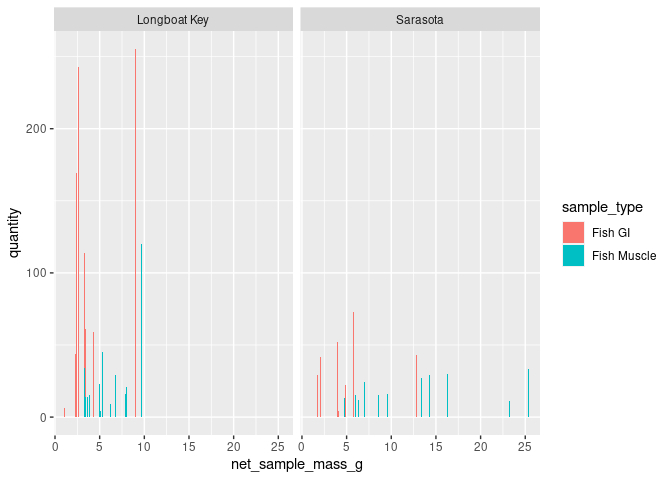
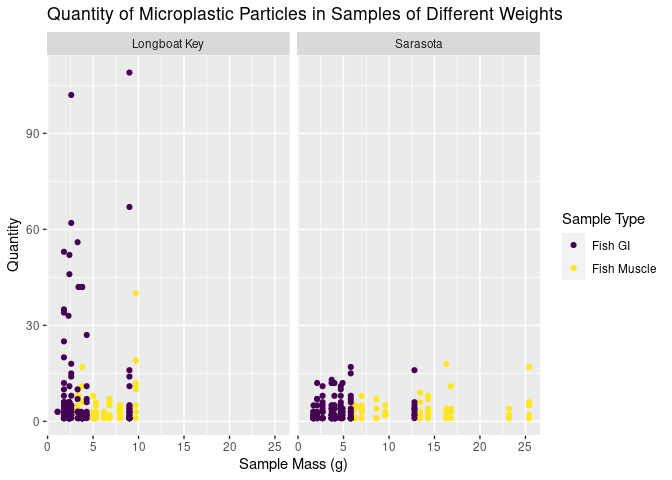
Finalize and tidy data visualizations

diff --git a/LEAFLERK.html b/LEAFLERK.html
@@ -4495,9 +4495,10 @@ pal7 &lt;-colorBin(&quot;RdBu&quot;, domain = fish_microplastics, bins=bins)</co
           zoom=12) %&gt;%
  
    addCircleMarkers(lng= fish_microplastics$collection_long,
-                    lat= fish_microplastics$collection_lat)</code></pre>
-<div class="leaflet html-widget html-fill-item" id="htmlwidget-0125c03beffb827678fa" style="width:672px;height:480px;"></div>
-<script type="application/json" data-for="htmlwidget-0125c03beffb827678fa">{"x":{"options":{"crs":{"crsClass":"L.CRS.EPSG3857","code":null,"proj4def":null,"projectedBounds":null,"options":{}}},"calls":[{"method":"addTiles","args":["https://{s}.tile.openstreetmap.org/{z}/{x}/{y}.png",null,null,{"minZoom":0,"maxZoom":18,"tileSize":256,"subdomains":"abc","errorTileUrl":"","tms":false,"noWrap":false,"zoomOffset":0,"zoomReverse":false,"opacity":1,"zIndex":1,"detectRetina":false,"attribution":"&copy; <a href=\"https://openstreetmap.org/copyright/\">OpenStreetMap<\/a>,  <a href=\"https://opendatacommons.org/licenses/odbl/\">ODbL<\/a>"}]},{"method":"addCircleMarkers","args":[[27.42136,27.42136,27.42136,27.42136,27.42136,27.42136,27.42136,27.42136,27.42136,27.31513,27.31513,27.31513,27.31513,27.31513,27.31513,27.31513,27.31513,27.31513,27.31513,27.31513,27.31513,27.42136,27.42136,27.42136,27.42136,27.42136,27.31513,27.31513,27.31513,27.31513,27.31513,27.42136,27.42136,27.42136,27.42136,27.42136,27.42136,27.42136,27.42136,27.42136,27.42136,27.42136,27.42136,27.42136,27.42136,27.42136,27.42136,27.42136,27.42136,27.42136,27.42136,27.42136,27.42136,27.42136,27.31513,27.31513,27.31513,27.31513,27.31513,27.31513,27.31513,27.31513,27.31513,27.42136,27.42136,27.42136,27.42136,27.42136,27.42136,27.31513,27.31513,27.31513,27.31513,27.31513,27.31513,27.31513,27.31513,27.31513,27.31513,27.31513,27.31513,27.31513,27.31513,27.31513,27.31513,27.31513,27.42136,27.42136,27.42136,27.42136,27.42136,27.42136,27.42136,27.42136,27.42136,27.42136,27.42136,27.42136,27.42136,27.42136,27.42136,27.42136,27.42136,27.42136,27.42136,27.42136,27.42136,27.42136,27.42136,27.42136,27.31513,27.31513,27.31513,27.31513,27.31513,27.31513,27.31513,27.42136,27.42136,27.42136,27.42136,27.42136,27.42136,27.42136,27.42136,27.42136,27.42136,27.42136,27.42136,27.42136,27.31513,27.31513,27.31513,27.31513,27.31513,27.31513,27.31513,27.31513,27.31513,27.31513,27.31513,27.31513,27.31513,27.31513,27.31513,27.31513,27.31513,27.31513,27.31513,27.31513,27.31513,27.42136,27.42136,27.42136,27.42136,27.42136,27.42136,27.42136,27.42136,27.42136,27.42136,27.42136,27.42136,27.42136,27.31513,27.31513,27.31513,27.31513,27.31513,27.31513,27.42136,27.42136,27.42136,27.42136,27.42136,27.42136,27.42136,27.42136,27.42136,27.42136,27.42136,27.42136,27.42136,27.42136,27.42136,27.42136,27.42136,27.42136,27.42136,27.42136,27.42136,27.42136,27.42136,27.42136,27.42136,27.42136,27.42136,27.42136,27.42136,27.42136,27.42136,27.42136,27.42136,27.42136,27.42136,27.42136,27.42136,27.42136,27.42136,27.42136,27.42136,27.42136,27.31513,27.31513,27.31513,27.31513,27.31513,27.31513,27.31513,27.31513,27.31513,27.31513,27.31513,27.31513,27.42136,27.42136,27.42136,27.42136,27.42136,27.42136,27.42136,27.42136,27.42136,27.42136,27.42136,27.42136,27.31513,27.31513,27.31513,27.31513,27.31513,27.31513,27.42136,27.42136,27.42136,27.42136,27.42136,27.42136,27.42136,27.42136,27.42136,27.42136,27.42136,27.42136,27.42136,27.42136,27.42136,27.42136,27.42136,27.42136,27.42136,27.42136,27.42136,27.31513,27.31513,27.31513,27.31513,27.31513,27.31513,27.31513,27.31513,27.31513,27.42136,27.42136,27.42136,27.42136,27.42136,27.42136,27.42136,27.42136,27.31513,27.31513,27.31513,27.31513,27.31513,27.31513,27.31513,27.31513,27.31513,27.31513,27.31513,27.31513,27.31513,27.31513,27.31513,27.31513,27.31513,27.31513,27.31513,27.31513,27.31513,27.31513,27.31513,27.31513,27.31513,27.42136,27.42136,27.42136,27.42136,27.42136,27.42136,27.31513,27.31513,27.31513,27.31513,27.31513,27.31513,27.31513,27.31513,27.31513,27.31513,27.31513,27.31513,27.31513,27.31513,27.31513,27.31513,27.31513,27.31513,27.31513,27.31513,27.31513,27.31513,27.31513,27.31513,27.31513,27.31513,27.31513,27.31513,27.31513,27.31513,27.31513,27.31513,27.42136,27.42136,27.42136,27.42136,27.42136,27.42136,27.42136,27.31513,27.31513,27.31513,27.31513,27.31513,27.42136,27.42136,27.42136,27.42136,27.42136,27.42136,27.31513,27.31513,27.31513,27.31513,27.31513,27.31513,27.31513,27.31513,27.42136,27.42136,27.42136,27.42136,27.42136,27.42136,27.31513,27.31513,27.31513,27.31513,27.31513,27.31513,27.42136,27.42136,27.42136,27.42136,27.42136,27.42136,27.42136,27.42136,27.42136,27.42136,27.42136,27.42136,27.42136,27.42136,27.42136,27.42136,27.42136,27.31513,27.31513,27.31513,27.31513,27.31513,27.31513,27.31513,27.31513,27.31513,27.31513,27.31513,27.31513,27.31513,27.31513,27.31513,27.31513,27.31513,27.42136,27.42136,27.42136,27.42136,27.42136],[-82.64988,-82.64988,-82.64988,-82.64988,-82.64988,-82.64988,-82.64988,-82.64988,-82.64988,-82.54724,-82.54724,-82.54724,-82.54724,-82.54724,-82.54724,-82.54724,-82.54724,-82.54724,-82.54724,-82.54724,-82.54724,-82.64988,-82.64988,-82.64988,-82.64988,-82.64988,-82.54724,-82.54724,-82.54724,-82.54724,-82.54724,-82.64988,-82.64988,-82.64988,-82.64988,-82.64988,-82.64988,-82.64988,-82.64988,-82.64988,-82.64988,-82.64988,-82.64988,-82.64988,-82.64988,-82.64988,-82.64988,-82.64988,-82.64988,-82.64988,-82.64988,-82.64988,-82.64988,-82.64988,-82.54724,-82.54724,-82.54724,-82.54724,-82.54724,-82.54724,-82.54724,-82.54724,-82.54724,-82.64988,-82.64988,-82.64988,-82.64988,-82.64988,-82.64988,-82.54724,-82.54724,-82.54724,-82.54724,-82.54724,-82.54724,-82.54724,-82.54724,-82.54724,-82.54724,-82.54724,-82.54724,-82.54724,-82.54724,-82.54724,-82.54724,-82.54724,-82.64988,-82.64988,-82.64988,-82.64988,-82.64988,-82.64988,-82.64988,-82.64988,-82.64988,-82.64988,-82.64988,-82.64988,-82.64988,-82.64988,-82.64988,-82.64988,-82.64988,-82.64988,-82.64988,-82.64988,-82.64988,-82.64988,-82.64988,-82.64988,-82.54724,-82.54724,-82.54724,-82.54724,-82.54724,-82.54724,-82.54724,-82.64988,-82.64988,-82.64988,-82.64988,-82.64988,-82.64988,-82.64988,-82.64988,-82.64988,-82.64988,-82.64988,-82.64988,-82.64988,-82.54724,-82.54724,-82.54724,-82.54724,-82.54724,-82.54724,-82.54724,-82.54724,-82.54724,-82.54724,-82.54724,-82.54724,-82.54724,-82.54724,-82.54724,-82.54724,-82.54724,-82.54724,-82.54724,-82.54724,-82.54724,-82.64988,-82.64988,-82.64988,-82.64988,-82.64988,-82.64988,-82.64988,-82.64988,-82.64988,-82.64988,-82.64988,-82.64988,-82.64988,-82.54724,-82.54724,-82.54724,-82.54724,-82.54724,-82.54724,-82.64988,-82.64988,-82.64988,-82.64988,-82.64988,-82.64988,-82.64988,-82.64988,-82.64988,-82.64988,-82.64988,-82.64988,-82.64988,-82.64988,-82.64988,-82.64988,-82.64988,-82.64988,-82.64988,-82.64988,-82.64988,-82.64988,-82.64988,-82.64988,-82.64988,-82.64988,-82.64988,-82.64988,-82.64988,-82.64988,-82.64988,-82.64988,-82.64988,-82.64988,-82.64988,-82.64988,-82.64988,-82.64988,-82.64988,-82.64988,-82.64988,-82.64988,-82.54724,-82.54724,-82.54724,-82.54724,-82.54724,-82.54724,-82.54724,-82.54724,-82.54724,-82.54724,-82.54724,-82.54724,-82.64988,-82.64988,-82.64988,-82.64988,-82.64988,-82.64988,-82.64988,-82.64988,-82.64988,-82.64988,-82.64988,-82.64988,-82.54724,-82.54724,-82.54724,-82.54724,-82.54724,-82.54724,-82.64988,-82.64988,-82.64988,-82.64988,-82.64988,-82.64988,-82.64988,-82.64988,-82.64988,-82.64988,-82.64988,-82.64988,-82.64988,-82.64988,-82.64988,-82.64988,-82.64988,-82.64988,-82.64988,-82.64988,-82.64988,-82.54724,-82.54724,-82.54724,-82.54724,-82.54724,-82.54724,-82.54724,-82.54724,-82.54724,-82.64988,-82.64988,-82.64988,-82.64988,-82.64988,-82.64988,-82.64988,-82.64988,-82.54724,-82.54724,-82.54724,-82.54724,-82.54724,-82.54724,-82.54724,-82.54724,-82.54724,-82.54724,-82.54724,-82.54724,-82.54724,-82.54724,-82.54724,-82.54724,-82.54724,-82.54724,-82.54724,-82.54724,-82.54724,-82.54724,-82.54724,-82.54724,-82.54724,-82.64988,-82.64988,-82.64988,-82.64988,-82.64988,-82.64988,-82.54724,-82.54724,-82.54724,-82.54724,-82.54724,-82.54724,-82.54724,-82.54724,-82.54724,-82.54724,-82.54724,-82.54724,-82.54724,-82.54724,-82.54724,-82.54724,-82.54724,-82.54724,-82.54724,-82.54724,-82.54724,-82.54724,-82.54724,-82.54724,-82.54724,-82.54724,-82.54724,-82.54724,-82.54724,-82.54724,-82.54724,-82.54724,-82.64988,-82.64988,-82.64988,-82.64988,-82.64988,-82.64988,-82.64988,-82.54724,-82.54724,-82.54724,-82.54724,-82.54724,-82.64988,-82.64988,-82.64988,-82.64988,-82.64988,-82.64988,-82.54724,-82.54724,-82.54724,-82.54724,-82.54724,-82.54724,-82.54724,-82.54724,-82.64988,-82.64988,-82.64988,-82.64988,-82.64988,-82.64988,-82.54724,-82.54724,-82.54724,-82.54724,-82.54724,-82.54724,-82.64988,-82.64988,-82.64988,-82.64988,-82.64988,-82.64988,-82.64988,-82.64988,-82.64988,-82.64988,-82.64988,-82.64988,-82.64988,-82.64988,-82.64988,-82.64988,-82.64988,-82.54724,-82.54724,-82.54724,-82.54724,-82.54724,-82.54724,-82.54724,-82.54724,-82.54724,-82.54724,-82.54724,-82.54724,-82.54724,-82.54724,-82.54724,-82.54724,-82.54724,-82.64988,-82.64988,-82.64988,-82.64988,-82.64988],10,null,null,{"interactive":true,"className":"","stroke":true,"color":"#03F","weight":5,"opacity":0.5,"fill":true,"fillColor":"#03F","fillOpacity":0.2},null,null,null,null,null,{"interactive":false,"permanent":false,"direction":"auto","opacity":1,"offset":[0,0],"textsize":"10px","textOnly":false,"className":"","sticky":true},null]}],"setView":[[27.346,-82.5673],12,[]],"limits":{"lat":[27.31513,27.42136],"lng":[-82.64988,-82.54724]}},"evals":[],"jsHooks":[]}</script>
+                    lat= fish_microplastics$collection_lat,
+                    radius = fish_microplastics$quantity)</code></pre>
+<div class="leaflet html-widget html-fill-item" id="htmlwidget-300327f83c4e00760af1" style="width:672px;height:480px;"></div>
+<script type="application/json" data-for="htmlwidget-300327f83c4e00760af1">{"x":{"options":{"crs":{"crsClass":"L.CRS.EPSG3857","code":null,"proj4def":null,"projectedBounds":null,"options":{}}},"calls":[{"method":"addTiles","args":["https://{s}.tile.openstreetmap.org/{z}/{x}/{y}.png",null,null,{"minZoom":0,"maxZoom":18,"tileSize":256,"subdomains":"abc","errorTileUrl":"","tms":false,"noWrap":false,"zoomOffset":0,"zoomReverse":false,"opacity":1,"zIndex":1,"detectRetina":false,"attribution":"&copy; <a href=\"https://openstreetmap.org/copyright/\">OpenStreetMap<\/a>,  <a href=\"https://opendatacommons.org/licenses/odbl/\">ODbL<\/a>"}]},{"method":"addCircleMarkers","args":[[27.42136,27.42136,27.42136,27.42136,27.42136,27.42136,27.42136,27.42136,27.42136,27.31513,27.31513,27.31513,27.31513,27.31513,27.31513,27.31513,27.31513,27.31513,27.31513,27.31513,27.31513,27.42136,27.42136,27.42136,27.42136,27.42136,27.31513,27.31513,27.31513,27.31513,27.31513,27.42136,27.42136,27.42136,27.42136,27.42136,27.42136,27.42136,27.42136,27.42136,27.42136,27.42136,27.42136,27.42136,27.42136,27.42136,27.42136,27.42136,27.42136,27.42136,27.42136,27.42136,27.42136,27.42136,27.31513,27.31513,27.31513,27.31513,27.31513,27.31513,27.31513,27.31513,27.31513,27.42136,27.42136,27.42136,27.42136,27.42136,27.42136,27.31513,27.31513,27.31513,27.31513,27.31513,27.31513,27.31513,27.31513,27.31513,27.31513,27.31513,27.31513,27.31513,27.31513,27.31513,27.31513,27.31513,27.42136,27.42136,27.42136,27.42136,27.42136,27.42136,27.42136,27.42136,27.42136,27.42136,27.42136,27.42136,27.42136,27.42136,27.42136,27.42136,27.42136,27.42136,27.42136,27.42136,27.42136,27.42136,27.42136,27.42136,27.31513,27.31513,27.31513,27.31513,27.31513,27.31513,27.31513,27.42136,27.42136,27.42136,27.42136,27.42136,27.42136,27.42136,27.42136,27.42136,27.42136,27.42136,27.42136,27.42136,27.31513,27.31513,27.31513,27.31513,27.31513,27.31513,27.31513,27.31513,27.31513,27.31513,27.31513,27.31513,27.31513,27.31513,27.31513,27.31513,27.31513,27.31513,27.31513,27.31513,27.31513,27.42136,27.42136,27.42136,27.42136,27.42136,27.42136,27.42136,27.42136,27.42136,27.42136,27.42136,27.42136,27.42136,27.31513,27.31513,27.31513,27.31513,27.31513,27.31513,27.42136,27.42136,27.42136,27.42136,27.42136,27.42136,27.42136,27.42136,27.42136,27.42136,27.42136,27.42136,27.42136,27.42136,27.42136,27.42136,27.42136,27.42136,27.42136,27.42136,27.42136,27.42136,27.42136,27.42136,27.42136,27.42136,27.42136,27.42136,27.42136,27.42136,27.42136,27.42136,27.42136,27.42136,27.42136,27.42136,27.42136,27.42136,27.42136,27.42136,27.42136,27.42136,27.31513,27.31513,27.31513,27.31513,27.31513,27.31513,27.31513,27.31513,27.31513,27.31513,27.31513,27.31513,27.42136,27.42136,27.42136,27.42136,27.42136,27.42136,27.42136,27.42136,27.42136,27.42136,27.42136,27.42136,27.31513,27.31513,27.31513,27.31513,27.31513,27.31513,27.42136,27.42136,27.42136,27.42136,27.42136,27.42136,27.42136,27.42136,27.42136,27.42136,27.42136,27.42136,27.42136,27.42136,27.42136,27.42136,27.42136,27.42136,27.42136,27.42136,27.42136,27.31513,27.31513,27.31513,27.31513,27.31513,27.31513,27.31513,27.31513,27.31513,27.42136,27.42136,27.42136,27.42136,27.42136,27.42136,27.42136,27.42136,27.31513,27.31513,27.31513,27.31513,27.31513,27.31513,27.31513,27.31513,27.31513,27.31513,27.31513,27.31513,27.31513,27.31513,27.31513,27.31513,27.31513,27.31513,27.31513,27.31513,27.31513,27.31513,27.31513,27.31513,27.31513,27.42136,27.42136,27.42136,27.42136,27.42136,27.42136,27.31513,27.31513,27.31513,27.31513,27.31513,27.31513,27.31513,27.31513,27.31513,27.31513,27.31513,27.31513,27.31513,27.31513,27.31513,27.31513,27.31513,27.31513,27.31513,27.31513,27.31513,27.31513,27.31513,27.31513,27.31513,27.31513,27.31513,27.31513,27.31513,27.31513,27.31513,27.31513,27.42136,27.42136,27.42136,27.42136,27.42136,27.42136,27.42136,27.31513,27.31513,27.31513,27.31513,27.31513,27.42136,27.42136,27.42136,27.42136,27.42136,27.42136,27.31513,27.31513,27.31513,27.31513,27.31513,27.31513,27.31513,27.31513,27.42136,27.42136,27.42136,27.42136,27.42136,27.42136,27.31513,27.31513,27.31513,27.31513,27.31513,27.31513,27.42136,27.42136,27.42136,27.42136,27.42136,27.42136,27.42136,27.42136,27.42136,27.42136,27.42136,27.42136,27.42136,27.42136,27.42136,27.42136,27.42136,27.31513,27.31513,27.31513,27.31513,27.31513,27.31513,27.31513,27.31513,27.31513,27.31513,27.31513,27.31513,27.31513,27.31513,27.31513,27.31513,27.31513,27.42136,27.42136,27.42136,27.42136,27.42136],[-82.64988,-82.64988,-82.64988,-82.64988,-82.64988,-82.64988,-82.64988,-82.64988,-82.64988,-82.54724,-82.54724,-82.54724,-82.54724,-82.54724,-82.54724,-82.54724,-82.54724,-82.54724,-82.54724,-82.54724,-82.54724,-82.64988,-82.64988,-82.64988,-82.64988,-82.64988,-82.54724,-82.54724,-82.54724,-82.54724,-82.54724,-82.64988,-82.64988,-82.64988,-82.64988,-82.64988,-82.64988,-82.64988,-82.64988,-82.64988,-82.64988,-82.64988,-82.64988,-82.64988,-82.64988,-82.64988,-82.64988,-82.64988,-82.64988,-82.64988,-82.64988,-82.64988,-82.64988,-82.64988,-82.54724,-82.54724,-82.54724,-82.54724,-82.54724,-82.54724,-82.54724,-82.54724,-82.54724,-82.64988,-82.64988,-82.64988,-82.64988,-82.64988,-82.64988,-82.54724,-82.54724,-82.54724,-82.54724,-82.54724,-82.54724,-82.54724,-82.54724,-82.54724,-82.54724,-82.54724,-82.54724,-82.54724,-82.54724,-82.54724,-82.54724,-82.54724,-82.64988,-82.64988,-82.64988,-82.64988,-82.64988,-82.64988,-82.64988,-82.64988,-82.64988,-82.64988,-82.64988,-82.64988,-82.64988,-82.64988,-82.64988,-82.64988,-82.64988,-82.64988,-82.64988,-82.64988,-82.64988,-82.64988,-82.64988,-82.64988,-82.54724,-82.54724,-82.54724,-82.54724,-82.54724,-82.54724,-82.54724,-82.64988,-82.64988,-82.64988,-82.64988,-82.64988,-82.64988,-82.64988,-82.64988,-82.64988,-82.64988,-82.64988,-82.64988,-82.64988,-82.54724,-82.54724,-82.54724,-82.54724,-82.54724,-82.54724,-82.54724,-82.54724,-82.54724,-82.54724,-82.54724,-82.54724,-82.54724,-82.54724,-82.54724,-82.54724,-82.54724,-82.54724,-82.54724,-82.54724,-82.54724,-82.64988,-82.64988,-82.64988,-82.64988,-82.64988,-82.64988,-82.64988,-82.64988,-82.64988,-82.64988,-82.64988,-82.64988,-82.64988,-82.54724,-82.54724,-82.54724,-82.54724,-82.54724,-82.54724,-82.64988,-82.64988,-82.64988,-82.64988,-82.64988,-82.64988,-82.64988,-82.64988,-82.64988,-82.64988,-82.64988,-82.64988,-82.64988,-82.64988,-82.64988,-82.64988,-82.64988,-82.64988,-82.64988,-82.64988,-82.64988,-82.64988,-82.64988,-82.64988,-82.64988,-82.64988,-82.64988,-82.64988,-82.64988,-82.64988,-82.64988,-82.64988,-82.64988,-82.64988,-82.64988,-82.64988,-82.64988,-82.64988,-82.64988,-82.64988,-82.64988,-82.64988,-82.54724,-82.54724,-82.54724,-82.54724,-82.54724,-82.54724,-82.54724,-82.54724,-82.54724,-82.54724,-82.54724,-82.54724,-82.64988,-82.64988,-82.64988,-82.64988,-82.64988,-82.64988,-82.64988,-82.64988,-82.64988,-82.64988,-82.64988,-82.64988,-82.54724,-82.54724,-82.54724,-82.54724,-82.54724,-82.54724,-82.64988,-82.64988,-82.64988,-82.64988,-82.64988,-82.64988,-82.64988,-82.64988,-82.64988,-82.64988,-82.64988,-82.64988,-82.64988,-82.64988,-82.64988,-82.64988,-82.64988,-82.64988,-82.64988,-82.64988,-82.64988,-82.54724,-82.54724,-82.54724,-82.54724,-82.54724,-82.54724,-82.54724,-82.54724,-82.54724,-82.64988,-82.64988,-82.64988,-82.64988,-82.64988,-82.64988,-82.64988,-82.64988,-82.54724,-82.54724,-82.54724,-82.54724,-82.54724,-82.54724,-82.54724,-82.54724,-82.54724,-82.54724,-82.54724,-82.54724,-82.54724,-82.54724,-82.54724,-82.54724,-82.54724,-82.54724,-82.54724,-82.54724,-82.54724,-82.54724,-82.54724,-82.54724,-82.54724,-82.64988,-82.64988,-82.64988,-82.64988,-82.64988,-82.64988,-82.54724,-82.54724,-82.54724,-82.54724,-82.54724,-82.54724,-82.54724,-82.54724,-82.54724,-82.54724,-82.54724,-82.54724,-82.54724,-82.54724,-82.54724,-82.54724,-82.54724,-82.54724,-82.54724,-82.54724,-82.54724,-82.54724,-82.54724,-82.54724,-82.54724,-82.54724,-82.54724,-82.54724,-82.54724,-82.54724,-82.54724,-82.54724,-82.64988,-82.64988,-82.64988,-82.64988,-82.64988,-82.64988,-82.64988,-82.54724,-82.54724,-82.54724,-82.54724,-82.54724,-82.64988,-82.64988,-82.64988,-82.64988,-82.64988,-82.64988,-82.54724,-82.54724,-82.54724,-82.54724,-82.54724,-82.54724,-82.54724,-82.54724,-82.64988,-82.64988,-82.64988,-82.64988,-82.64988,-82.64988,-82.54724,-82.54724,-82.54724,-82.54724,-82.54724,-82.54724,-82.64988,-82.64988,-82.64988,-82.64988,-82.64988,-82.64988,-82.64988,-82.64988,-82.64988,-82.64988,-82.64988,-82.64988,-82.64988,-82.64988,-82.64988,-82.64988,-82.64988,-82.54724,-82.54724,-82.54724,-82.54724,-82.54724,-82.54724,-82.54724,-82.54724,-82.54724,-82.54724,-82.54724,-82.54724,-82.54724,-82.54724,-82.54724,-82.54724,-82.54724,-82.64988,-82.64988,-82.64988,-82.64988,-82.64988],[3,19,19,40,5,1,12,11,10,2,2,2,3,1,3,1,1,1,4,2,2,8,2,2,1,1,1,4,5,1,1,1,7,2,4,8,2,1,5,1,3,17,1,11,1,1,2,4,2,1,5,5,3,1,9,6,1,1,3,2,2,2,1,2,6,2,2,1,2,3,3,11,4,1,3,8,4,3,5,1,5,3,2,2,2,2,3,2,1,2,1,1,2,1,2,1,2,3,1,3,2,1,1,5,2,2,2,1,2,2,17,1,2,5,6,1,1,5,4,1,3,3,6,6,1,5,7,1,2,1,7,4,1,1,1,1,4,3,2,7,3,1,8,1,18,3,4,2,1,1,1,2,3,6,1,2,1,3,1,3,2,1,1,1,2,1,3,4,4,1,8,2,1,8,3,1,42,3,1,1,102,18,15,5,14,2,1,8,3,42,1,1,1,1,1,2,1,3,3,1,6,33,3,1,27,11,3,1,7,2,2,6,4,2,2,2,13,3,2,1,8,1,3,1,109,16,1,1,1,2,1,5,62,2,4,2,4,12,1,1,5,1,4,null,20,35,2,2,1,1,6,34,53,25,6,1,5,67,14,4,3,2,5,3,6,16,5,2,4,4,2,1,3,2,5,1,3,1,1,3,1,1,1,1,1,5,1,1,7,2,5,1,2,1,3,3,2,3,1,2,1,1,2,1,1,1,42,1,1,1,2,2,4,12,1,1,5,1,2,5,4,1,8,4,6,4,3,5,1,11,1,3,12,7,2,1,5,6,3,3,2,2,2,4,11,3,3,1,1,1,12,3,4,1,2,56,1,7,10,3,3,12,1,2,1,5,4,1,2,12,1,2,5,3,3,11,10,4,1,8,1,46,3,4,5,4,6,1,1,1,5,52,11,6,5,1,1,1,17,8,1,3,1,1,1,7,1,6,3,2,15,4,1,1,1,10,8,3,1,2],null,null,{"interactive":true,"className":"","stroke":true,"color":"#03F","weight":5,"opacity":0.5,"fill":true,"fillColor":"#03F","fillOpacity":0.2},null,null,null,null,null,{"interactive":false,"permanent":false,"direction":"auto","opacity":1,"offset":[0,0],"textsize":"10px","textOnly":false,"className":"","sticky":true},null]}],"setView":[[27.346,-82.5673],12,[]],"limits":{"lat":[27.31513,27.42136],"lng":[-82.64988,-82.54724]}},"evals":[],"jsHooks":[]}</script>
 <p>``` # Let’s represent the 2 sampling stations in the dataset (see
 plastics_analysis)</p>
 

diff --git a/plastics_analysis.md b/plastics_analysis.md
@@ -13,6 +13,9 @@ Mabon Young, John Calzini, and Gordon Maguire
 library(tidyverse)
 library(readxl)
 library(janitor)
+library(RColorBrewer)
+library(forcats)
+library(ggridges)
 ```
 
 ``` r
@@ -138,11 +141,53 @@ fish_microplastics_full <- fish_microplastics_dens %>%
 
 ``` r
 fish_microplastics_full %>%
-  ggplot(aes(x = net_sample_mass_g, y = quantity, fill = sample_type)) +
+  ggplot(aes(x = net_sample_mass_g, y = quantity, color = sample_type)) +
+  geom_point() +
+  facet_wrap(~station) +
+  scale_colour_viridis_d() +
+  labs( x = "Sample Mass (g)",
+        y = "Quantity",
+        color = "Sample Type",
+        title = "Quantity of Microplastic Particles in Samples of Different Weights"
+    )
+```
+
+    ## Warning: Removed 1 rows containing missing values (`geom_point()`).
+
+<img src="plastics_analysis_files/figure-gfm/dens-by-station-1.png" alt="A scatter chart of microplastic quantity by sample mass for the Longboat Key and Sarasota sampling stations showing that microplastics are much more abundant in the Longboat Key samples, even at low sample masses."  />
+
+``` r
+fish_microplastics_full %>%
+  drop_na(particle_type) %>%
+  ggplot(aes(x = fct_relevel(particle_type, "Fiber_single", "Fiber_bundle", "Film", "Fragment_TWP", "Fragment_nonTWP" ), y = quantity, fill = sample_type)) +
   geom_col() +
-  facet_wrap(~station)
+  facet_wrap(~station) +
+  scale_x_discrete(labels = c("Single Fiber", "Fiber Bundle", "Film", "Tire Wear", "Other")) +
+  theme(axis.text.x = element_text(angle = 45, vjust = 1, hjust=1)) +
+  scale_fill_viridis_d() +
+  labs(x = "Particle Type", 
+       y = "Quantity", 
+       fill = "Sample Type",
+       title = "Quantity of Particle Types Between Research Stations" )
 ```
 
     ## Warning: Removed 1 rows containing missing values (`position_stack()`).
 
-<img src="plastics_analysis_files/figure-gfm/dens-by-station-1.png" alt="A bar chart of microplastic quantity by sample mass for the Longboat Key and Sarasota sampling stations showing that microplastics are much more abundant in the Longboat Key samples, even at low sample masses."  />
+<img src="plastics_analysis_files/figure-gfm/station-part-type-1.png" alt="A bar graph of the amount of different types of particles at each research station, showing that the Longboat Key station had more particles overall, with significantly more single fibers than Sarasota, with Sarasota having slightly more miscellaneous, uncategorized particles."  />
+
+``` r
+fish_microplastics %>%
+  group_by(fish_id) %>%
+  filter(quantity < 60) %>%
+  ggplot(aes(x = quantity, y = fish_id, fill = fish_id, show.legend = FALSE)) +
+  geom_density_ridges() +
+  theme(legend.position = "none") +
+  scale_fill_viridis_d() +
+  labs(x = "Quantity Distribution",
+       y = "Fish ID",
+       title = "Quantity Distribution Density by Individual Fish")
+```
+
+    ## Picking joint bandwidth of 1.34
+
+<img src="plastics_analysis_files/figure-gfm/quant-density-1.png" alt="In this ridgeline plot, we can see the different individual fish that were collected and the quantity of microplastics within them. We can see that most of the fish had a similar density of microplastics at the lower end of the scale, with some individuals having spikes of concentration at higher levels."  />
